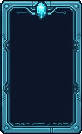
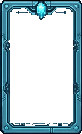
Full-card art: every card's picture fills the card, from one preloaded atlas
Owner's ask (Oct 21): the art should fill the whole card, which also ends
"the card loads but not the art".
- 40 illustrated card pictures (SpriteCook, five 4x2 sheets) in one atlas,
  frames/card_art.webp (8x5 tiles of 120x240), and CardArt.ts mapping the
  icon names every card already uses (Faith actions and procedural cards,
  TP cards, Fate cards, the fixed divine actions) to their tile.
- The atlas, the five frames and the two backs are preloaded and decoded
  at launch (IconPreload): one image for every picture, so a card cannot
  appear before its art. A name with no tile falls back to the old icon.
- Layout: the picture fills the card under the frame (the frame is now
  the card's ::after, a 9-slice with a clear centre); the name sits on a
  soft plate at the top, the words and price gather on a dark foot.
- frames/card_art_extra.webp: four more pictures (a petition, a council,
  war, invention) kept for petitions and councils, not used yet.

CSS and card markup only; no game logic changed.

Claude-Session: https://claude.ai/code/session_013ARXfuy9dsQfnpbm7DWhnw

diff --git a/index.html b/index.html
@@ -3122,28 +3122,28 @@ body.moment-on #toast-container{top:calc(var(--top, 50px) + 168px);transition:to
       <button class="divine-action-btn faith-violet" id="send-prophet-btn" disabled>
         <span class="faith-notch-tr"></span><span class="faith-notch-bl"></span>
         <span class="divine-action-name">SEND PROPHET</span>
-        <span class="faith-icon-wrap"><img class="faith-icon" src="/assets/pixel/divine/prophet.png" alt="" width="32" height="32"/></span>
+        <span class="faith-icon-wrap card-art" aria-hidden="true"><i style="background-position:85.7143% 100.0000%"></i></span><!-- card art: prophet (src/ui/CardArt.ts) -->
         <span class="divine-action-desc">Inspire your people. Arrives faster.</span>
         <span class="divine-action-cost">✦ 15 DP</span>
       </button>
       <button class="divine-action-btn faith-gold faith-reveal" id="trigger-revelation-btn" disabled>
         <span class="faith-notch-tr"></span><span class="faith-notch-bl"></span>
         <span class="divine-action-name">TRIGGER REVELATION</span>
-        <span class="faith-icon-wrap"><img class="faith-icon" src="/assets/pixel/divine/revelation.png" alt="" width="32" height="32"/></span>
+        <span class="faith-icon-wrap card-art" aria-hidden="true"><i style="background-position:0.0000% 0.0000%"></i></span><!-- card art: revelation (src/ui/CardArt.ts) -->
         <span class="divine-action-desc">Send a divine sign. Deepen your faith's devotion.</span>
         <span class="divine-action-cost">✦ 15 DP</span>
       </button>
       <button class="divine-action-btn faith-green" id="place-life-btn" style="display:none">
         <span class="faith-notch-tr"></span><span class="faith-notch-bl"></span>
         <span class="divine-action-name">PLACE LIFE</span>
-        <span class="faith-icon-wrap"><img class="faith-icon" src="/assets/pixel/divine/harvest.png" alt="" width="32" height="32"/></span>
+        <span class="faith-icon-wrap card-art" aria-hidden="true"><i style="background-position:0.0000% 50.0000%"></i></span><!-- card art: harvest (src/ui/CardArt.ts) -->
         <span class="divine-action-desc">Creative: seed life on your world. Hastens a forming world.</span>
         <span class="divine-action-cost">✦ FREE</span>
       </button>
       <button class="divine-action-btn faith-orange" id="smite-asteroid-btn" disabled style="display:none">
         <span class="faith-notch-tr"></span><span class="faith-notch-bl"></span>
         <span class="divine-action-name">SMITE ASTEROID</span>
-        <span class="faith-icon-wrap"><img class="faith-icon" src="/assets/pixel/divine/smite.png" alt="" width="32" height="32"/></span>
+        <span class="faith-icon-wrap card-art" aria-hidden="true"><i style="background-position:100.0000% 100.0000%"></i></span><!-- card art: smite (src/ui/CardArt.ts) -->
         <span class="divine-action-desc">Destroy inbound threat</span>
         <span class="divine-action-cost">✦ 25 DP</span>
       </button>
@@ -4792,11 +4792,9 @@ body:has(#planet-overlay[style*="flex"]) .faith-deck{z-index:210;left:var(--rail
    Each colour family has its own metal; TP cards wear steel. ── */
 .faith-deck .divine-action-btn,#faith-modal .divine-action-btn,#tech-modal .divine-action-btn,.ts-cards .divine-action-btn,.fate-card:not(.fw-sprite){
   --fs:1.5;
-  border:0 solid transparent;background:transparent;box-shadow:none;
-  /* --frame is set by the card's colour family (below); gold when it has none. */
-  border-image:var(--frame, url(/assets/pixel/divine/cards/frames/frame_gold.png)) 22 fill / calc(22px * var(--fs)) / 0 stretch;
+  position:relative;border:0 solid transparent;background:transparent;box-shadow:none;
   image-rendering:pixelated;
-  padding:calc(15px * var(--fs)) calc(8px * var(--fs)) calc(9px * var(--fs));
+  padding:calc(15px * var(--fs)) calc(10px * var(--fs)) calc(13px * var(--fs));
   filter:drop-shadow(0 4px 0 #000) drop-shadow(0 8px 10px rgba(0,0,0,.55));
 }
 .faith-deck .divine-action-btn > *,#faith-modal .divine-action-btn > *,#tech-modal .divine-action-btn > *,.ts-cards .divine-action-btn > *,.fate-card > *{image-rendering:auto}
@@ -4836,8 +4834,8 @@ body:has(#planet-overlay[style*="flex"]) .faith-deck{z-index:210;left:var(--rail
 .faith-deck .divine-action-btn:disabled:hover,.faith-deck .divine-action-btn.faith-off:hover{filter:grayscale(.55) brightness(.8) drop-shadow(0 4px 0 #000)}
 .tech-card.tech-in-effect{box-shadow:none;filter:drop-shadow(0 0 2px var(--cyan)) drop-shadow(0 0 12px rgba(90,212,232,.6)) drop-shadow(0 4px 0 #000)}
 /* Bigger cards (Seek, the crucible): the same frame, larger pixels */
-#faith-modal .divine-action-btn.faith-proc-big{--fs:2.4}
-.fate-card:not(.fw-sprite){--fs:1.85;padding:calc(15px * var(--fs)) calc(9px * var(--fs)) calc(9px * var(--fs))}
+#faith-modal .divine-action-btn.faith-proc-big{--fs:2.4;padding:calc(15px * var(--fs)) calc(10px * var(--fs)) calc(13px * var(--fs));min-height:300px}
+.fate-card:not(.fw-sprite){--fs:1.85;padding:calc(15px * var(--fs)) calc(10px * var(--fs)) calc(12px * var(--fs))}
 .fate-card:not(.fw-sprite):hover{box-shadow:none;filter:drop-shadow(0 0 14px var(--tg)) drop-shadow(0 10px 14px rgba(0,0,0,.6))}
 .fate-card .fate-icon-wrap{border:0;background:radial-gradient(circle,var(--tg) 0%,transparent 70%),rgba(0,0,0,.35)}
 .fate-card .fate-value{border-top:1px solid rgba(255,255,255,.12)}
@@ -4852,6 +4850,45 @@ body:has(#planet-overlay[style*="flex"]) .faith-deck{z-index:210;left:var(--rail
 .td-pile .td-tp,.td-pile .td-n{background:rgba(4,10,18,.82);padding:1px 6px;image-rendering:auto}
 .tech-deck.ready .td-pile{animation:tdGlow 1.8s ease-in-out infinite}
 @keyframes tdGlow{0%,100%{filter:drop-shadow(4px -4px 0 #2e5a78) drop-shadow(0 0 8px rgba(90,170,230,.3))}50%{filter:drop-shadow(4px -4px 0 #2e5a78) drop-shadow(0 0 22px rgba(140,210,255,.8))}}
+/* ── Full-card art (src/ui/CardArt.ts): the picture fills the card, the frame lies
+   over it, the words sit on shaded bands. The frame is the card's ::after (a
+   9-slice with a clear centre); --frame is set by its colour family. ── */
+.faith-deck .divine-action-btn::after,#faith-modal .divine-action-btn::after,#tech-modal .divine-action-btn::after,.ts-cards .divine-action-btn::after,.fate-card:not(.fw-sprite)::after{
+  content:'';display:block;position:absolute;inset:0;width:auto;height:auto;z-index:3;pointer-events:none;
+  border:0 solid transparent;background:none;
+  border-image:var(--frame, url(/assets/pixel/divine/cards/frames/frame_gold.png)) 22 / calc(22px * var(--fs)) / 0 stretch;
+  image-rendering:pixelated}
+.faith-deck .divine-action-btn::before,#faith-modal .divine-action-btn::before,#tech-modal .divine-action-btn::before,.ts-cards .divine-action-btn::before,.fate-card:not(.fw-sprite)::before{
+  content:'';display:block;position:absolute;inset:calc(6px * var(--fs));width:auto;height:auto;z-index:0;border:0;background:#08060f}
+.faith-deck .divine-action-btn > :not(.card-art),#faith-modal .divine-action-btn > :not(.card-art),#tech-modal .divine-action-btn > :not(.card-art),
+.ts-cards .divine-action-btn > :not(.card-art),.fate-card:not(.fw-sprite) > :not(.card-art){position:relative;z-index:2}
+.card-art{position:absolute !important;inset:calc(6px * var(--fs)) !important;width:auto !important;height:auto !important;margin:0 !important;
+  overflow:hidden;z-index:1;border:0 !important;box-shadow:none !important;background:#08060f !important;filter:none !important}
+.card-art i{display:block;width:100%;aspect-ratio:1/2;background-image:url(/assets/pixel/divine/cards/frames/card_art.webp);
+  background-size:800% 500%;image-rendering:pixelated;
+  /* The picture's middle sits in the clear upper part of the card, above the words' foot */
+  position:absolute;left:0;right:0;top:40%;transform:translateY(-50%)}
+/* The name on a soft dark plate, readable over any picture */
+.faith-deck .divine-action-btn .divine-action-name,#faith-modal .divine-action-btn .divine-action-name,
+#tech-modal .divine-action-btn .divine-action-name,.ts-cards .divine-action-btn .divine-action-name{
+  align-self:center;min-height:0;margin-top:2px;padding:2px 6px;background:rgba(5,3,12,.62);box-shadow:0 0 8px 2px rgba(5,3,12,.55)}
+.faith-deck .divine-action-btn .fc-meta,#faith-modal .divine-action-btn .fc-meta{align-self:center;padding:1px 6px;background:rgba(5,3,12,.7);color:#c9bde0}
+/* One spring above the words (after the picture); the price follows the words, it does not float */
+.faith-deck .divine-action-btn .divine-action-cost,#faith-modal .divine-action-btn .divine-action-cost,
+#tech-modal .divine-action-btn .divine-action-cost,.ts-cards .divine-action-btn .divine-action-cost{margin-top:5px}
+/* Shade: a dark band under the name, the picture clear in the middle, the words on a dark foot */
+.card-art::after{content:'';position:absolute;inset:0;pointer-events:none;
+  background:linear-gradient(to bottom,rgba(6,4,12,.82) 0,rgba(6,4,12,.15) 21%,transparent 30%,transparent 46%,rgba(6,4,12,.88) 66%,rgba(6,4,12,.96) 100%)}
+.card-art + *{margin-top:auto !important}
+.faith-deck .divine-action-btn .divine-action-desc,#faith-modal .divine-action-btn .divine-action-desc,.ts-cards .divine-action-desc,#tech-modal .divine-action-desc,.fate-card .fate-text{
+  text-shadow:0 1px 0 #000,0 0 6px #000;color:#e6dcf2}
+.fate-card .fate-text{flex:0 0 auto}
+.fate-card .fate-name{text-shadow:0 1px 0 #000,0 0 8px #000}
+/* The deck's small cards: the picture and the name; two lines of words (hover tells the rest) */
+.faith-deck .divine-action-btn .divine-action-desc{display:-webkit-box;-webkit-box-orient:vertical;-webkit-line-clamp:2;overflow:hidden;font-size:10px}
+.ts-cards .divine-action-desc,#tech-modal .tm-row .divine-action-desc{display:-webkit-box;-webkit-box-orient:vertical;-webkit-line-clamp:3;overflow:hidden}
+/* The pile cards keep their backs, with no frame over them */
+.faith-deck #faith-seek-btn::after,.fate-card.fate-unknown::after,.faith-deck #faith-seek-btn::before,.fate-card.fate-unknown::before{display:none}
 /* ── Tech cards (src/ui/TechCards.ts): TP spent; cyan is TP's colour ── */
 .res-tp{cursor:pointer}
 #tech-modal{

diff --git a/src/ui/CardArt.ts b/src/ui/CardArt.ts
@@ -1,0 +1,81 @@
+/**
+ * Full-card art (owner's ask, Oct 21): every card's picture fills the card
+ * inside its frame, instead of a small icon that loaded after the card.
+ *
+ * All the pictures are one atlas, public/assets/pixel/divine/cards/frames/
+ * card_art.webp (SpriteCook, five 4x2 sheets, sliced to 8x5 tiles
+ * of 120x240), loaded and decoded once at launch with the frames
+ * (IconPreload): a card can no longer appear before its art.
+ */
+
+export const CARD_ART_URL = '/assets/pixel/divine/cards/frames/card_art.webp';
+const COLS = 8, ROWS = 5;
+
+/** Tile index in the atlas, by icon name (the names the cards already use). */
+const ART: Record<string, number> = {
+  awaken: 0,
+  blight: 1,
+  calm: 2,
+  cleanse: 3,
+  comet: 4,
+  concord: 5,
+  crucible: 6,
+  cure: 7,
+  discord: 8,
+  drought: 9,
+  exodus: 10,
+  fertility: 11,
+  fervor: 12,
+  foe: 13,
+  golden: 14,
+  hardy: 15,
+  harvest: 16,
+  herds: 17,
+  ice_age: 18,
+  inspire: 19,
+  meteor: 20,
+  murrain: 21,
+  mutate: 22,
+  pestilence: 23,
+  quake: 24,
+  rains: 25,
+  revolt: 26,
+  schism: 27,
+  seafaring: 28,
+  seed: 29,
+  seek: 30,
+  sight: 31,
+  terraform: 32,
+  theft: 33,
+  veins: 34,
+  volcano: 35,
+  zeal: 36,
+  evolution: 37,
+  prophet: 38,
+  smite: 39,
+};
+
+/** Icon names that share another's picture. */
+const ALIAS: Record<string, string> = { revelation: 'awaken', golden_card: 'golden' };
+
+/** The atlas tile for an icon name ('cards/blight', 'prophet', 'ice_age'…), or null. */
+export function artTile(icon: string): number | null {
+  const name = icon.replace(/^.*\//, '');
+  const k = ART[name] ?? ART[ALIAS[name] ?? ''];
+  return k == null ? null : k;
+}
+
+/**
+ * The picture of a card, filling it (CSS .card-art). `cls` keeps the old
+ * wrapper class so existing layouts still find it; with no tile it falls back
+ * to the old small icon.
+ */
+export function cardArt(icon: string, cls = 'faith-icon-wrap', fallbackSrc = ''): string {
+  const k = artTile(icon);
+  if (k == null) return fallbackSrc ? `<span class="${cls}"><img class="faith-icon" src="${fallbackSrc}" alt="" width="32" height="32"/></span>` : `<span class="${cls}"></span>`;
+  const x = k % COLS, y = Math.floor(k / COLS);
+  return `<span class="${cls} card-art" aria-hidden="true"><i style="background-position:${(x / (COLS - 1) * 100).toFixed(4)}% ${(y / (ROWS - 1) * 100).toFixed(4)}%"></i></span>`;
+}
+
+export const CARD_ART_COLS = COLS;
+export const CARD_ART_ROWS = ROWS;

diff --git a/src/ui/FaithHand.ts b/src/ui/FaithHand.ts
@@ -13,6 +13,7 @@
  * the land and the heavens. Hovering a card shows its anatomy. Each recent
  * use of a kind of card marks the next one up (gameState.faithWear).
  */
+import { cardArt } from './CardArt';
 import { gameState, runtimeState } from '../simulation/GameState';
 import {
   discover, forge, cast, castable, signalsOf, describe, anatomy, isBane, iconOf, scopeOf, spanOf, aimable,
@@ -117,7 +118,7 @@ function face(c: FaithCard, big = false): string {
   return `<button class="divine-action-btn faith-proc ${tone}${big ? ' faith-proc-big' : ''}" data-card="${esc(c.id)}">
     <span class="faith-notch-tr"></span><span class="faith-notch-bl"></span>
     <span class="divine-action-name">${esc(c.name)}</span>
-    <span class="faith-icon-wrap"><img class="faith-icon" src="/assets/pixel/divine/${iconOf(c)}.png" alt="" width="32" height="32"/></span>
+    ${cardArt(iconOf(c), 'faith-icon-wrap', `/assets/pixel/divine/${iconOf(c)}.png`)}
     <span class="fc-meta"><span class="fc-pips">${[1, 2, 3].map(i => `<i${i <= c.magnitude ? ' class="on"' : ''}></i>`).join('')}</span>${esc(spanOf(c))}</span>
     <span class="divine-action-desc">${esc(say(c))}</span>
     ${c.sides.length ? `<span class="faith-proc-side">${c.sides.length === 1 ? '1 price' : `${c.sides.length} prices`}</span>` : ''}
@@ -272,7 +273,7 @@ export function refresh(force = false): void {
   const crucible = hand().length >= 2 ? `<button class="divine-action-btn faith-orange faith-hand-el${burning ? ' selected' : ' affordable'}" id="faith-crucible-btn">
     <span class="faith-notch-tr"></span><span class="faith-notch-bl"></span>
     <span class="divine-action-name">THE CRUCIBLE</span>
-    <span class="faith-icon-wrap"><img class="faith-icon" src="/assets/pixel/divine/cards/crucible.png" alt="" width="32" height="32"/></span>
+    ${cardArt('crucible')}
     <span class="divine-action-desc">${burning ? `Choose ${2 - burnPick!.length} more to burn. Click here to stop.` : 'Burn two cards to forge one you cannot foresee.'}</span>
     <span class="divine-action-cost">${burning ? '✕ CANCEL' : '✦ FREE'}</span></button>` : '';
   const holder = document.createElement('div');

diff --git a/src/ui/TechCards.ts b/src/ui/TechCards.ts
@@ -9,6 +9,7 @@
  * REMAKE A WORLD ask where / what first. The engine does every act
  * (BigBangEngine.playTechCard, relocateHome); this module only offers them.
  */
+import { cardArt } from './CardArt';
 import { gameState } from '../simulation/GameState';
 import { RELOCATE_STAR_ERA, type RelocationTarget, type BigBangEngine } from '../simulation/BigBangEngine';
 import { ageName } from '../simulation/Progression';
@@ -60,7 +61,7 @@ function face(v: View, big = false): string {
   return `<button class="divine-action-btn faith-proc${big ? ' faith-proc-big' : ''} tech-card${off ? ' faith-off' : ' affordable'}${v.inEffect ? ' tech-in-effect' : ''}" data-card="${v.card.id}">${badge}
     <span class="faith-notch-tr"></span><span class="faith-notch-bl"></span>
     <span class="divine-action-name">${esc(v.card.name)}</span>
-    <span class="faith-icon-wrap"><img class="faith-icon" src="/assets/pixel/divine/cards/${v.card.icon}.png" alt="" width="32" height="32"/></span>
+    ${cardArt(v.card.icon, 'faith-icon-wrap', `/assets/pixel/divine/cards/${v.card.icon}.png`)}
     <span class="divine-action-desc">${esc(v.card.does)}</span>
     <span class="divine-action-cost">◆ ${v.price} TP</span></button>`;
 }

diff --git a/src/ui/IconPreload.ts b/src/ui/IconPreload.ts
@@ -7,6 +7,7 @@
  */
 import { ACTIONS } from '../simulation/FaithCards';
 import { FATE_CARDS } from '../simulation/Forge';
+import { CARD_ART_URL } from './CardArt';
 
 const held: HTMLImageElement[] = [];
 let started = false;
@@ -17,6 +18,10 @@ export function divineIconUrls(): string[] {
   for (const a of ACTIONS) { names.add(a.id); names.add(a.icon); }
   for (const f of FATE_CARDS) names.add(f.icon);
   const urls = [...names].map(n => `/assets/pixel/divine/cards/${n}.png`);
+  // The card art atlas, the frames and the backs (CardArt.ts): one image for
+  // every card's picture, so a card never shows before its art.
+  urls.unshift(CARD_ART_URL, ...['gold', 'crimson', 'verdant', 'amethyst', 'steel'].map(m => `/assets/pixel/divine/cards/frames/frame_${m}.png`),
+    '/assets/pixel/divine/cards/frames/back_faith.png', '/assets/pixel/divine/cards/frames/back_tech.png');
   // The fixed divine actions' own icons (one level up).
   for (const n of ['evolution', 'harvest', 'meteor', 'prophet', 'revelation', 'sight', 'smite', 'terraform']) urls.push(`/assets/pixel/divine/${n}.png`);
   return urls;

diff --git a/src/ui/ForgeUI.ts b/src/ui/ForgeUI.ts
@@ -13,6 +13,7 @@
  * resumes where it was.
  */
 
+import { cardArt } from './CardArt';
 import { playSealBreak } from './SealBreak';
 import { SeedRNG } from '../utils/SeedRNG';
 import { gameState } from '../simulation/GameState';
@@ -89,7 +90,7 @@ function cardFace(card: ForgedCard, index: number): string {
     <span class="fate-notch tl"></span><span class="fate-notch br"></span>
     ${def.answers ? `<span class="fate-ribbon">The world answers</span>` : ''}
     <span class="fate-name">${esc(def.name)}</span>
-    <span class="fate-icon-wrap"><img class="fate-icon" src="/assets/pixel/divine/cards/${def.icon}.png" alt="" width="40" height="40"/></span>
+    ${cardArt(def.icon, 'fate-icon-wrap', `/assets/pixel/divine/cards/${def.icon}.png`)}
     <span class="fate-text">${esc(def.text)}</span>
     ${def.answers ? `<span class="fate-answers">${esc(def.answers)}</span>` : ''}
     <span class="fate-value">+${value} <i>forging</i></span>
